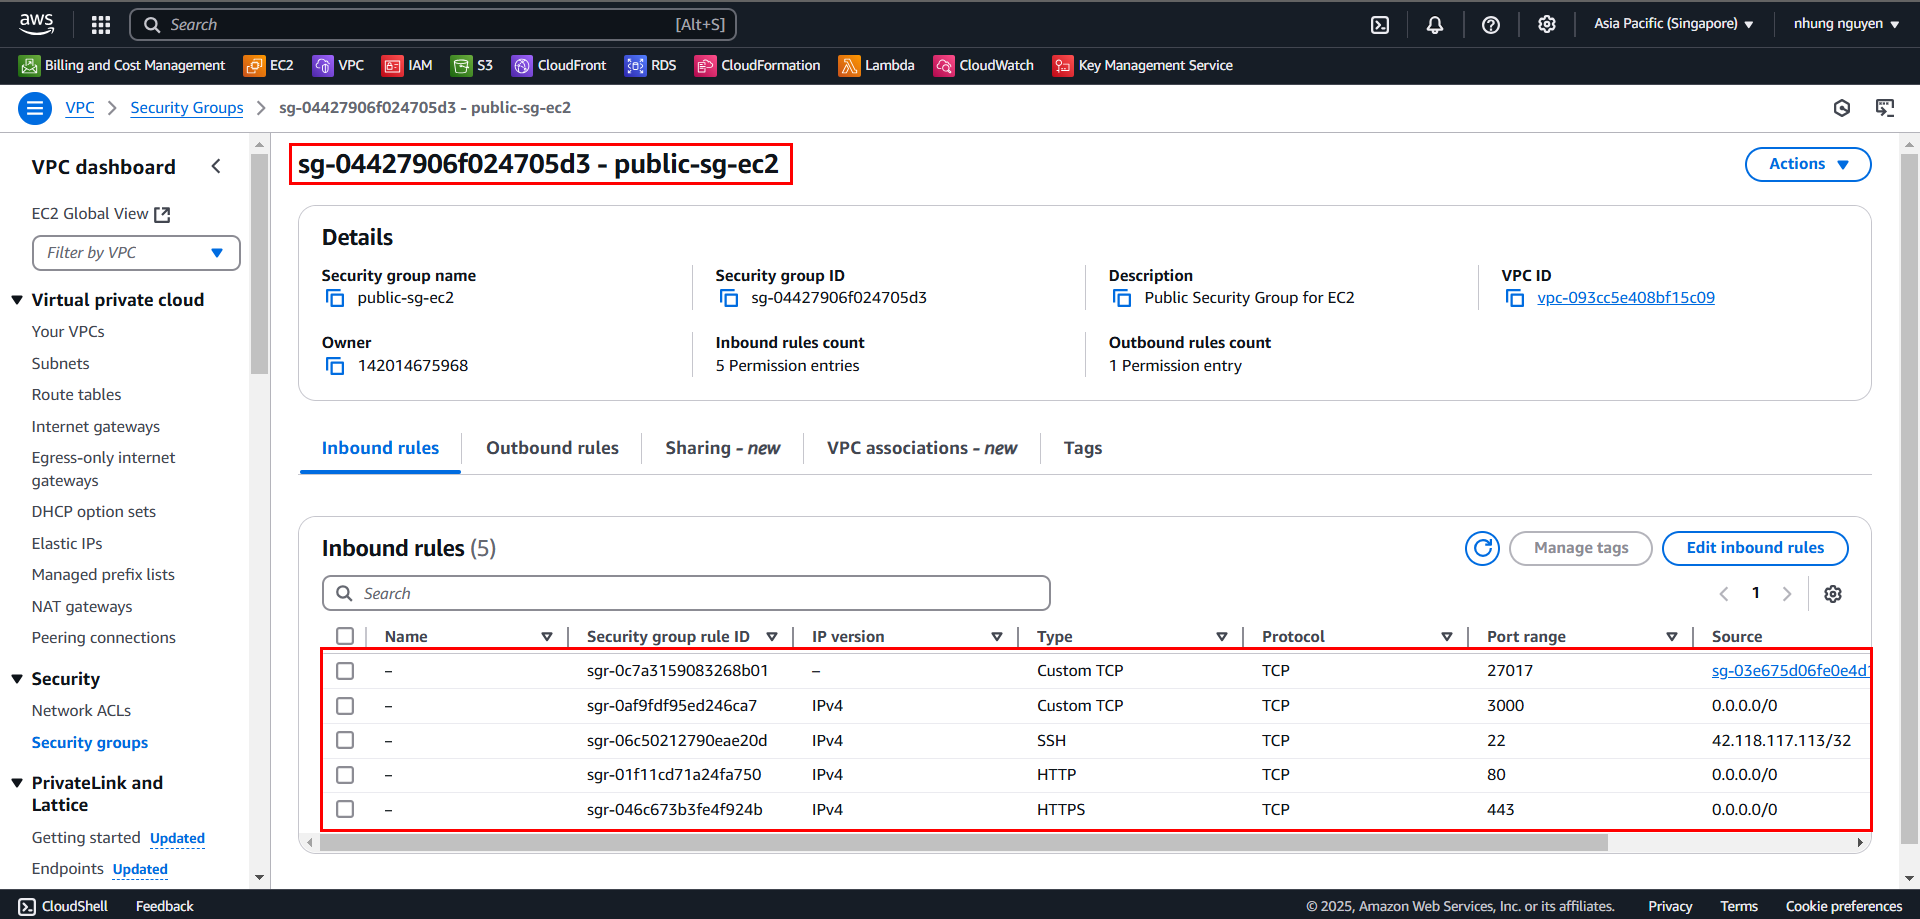
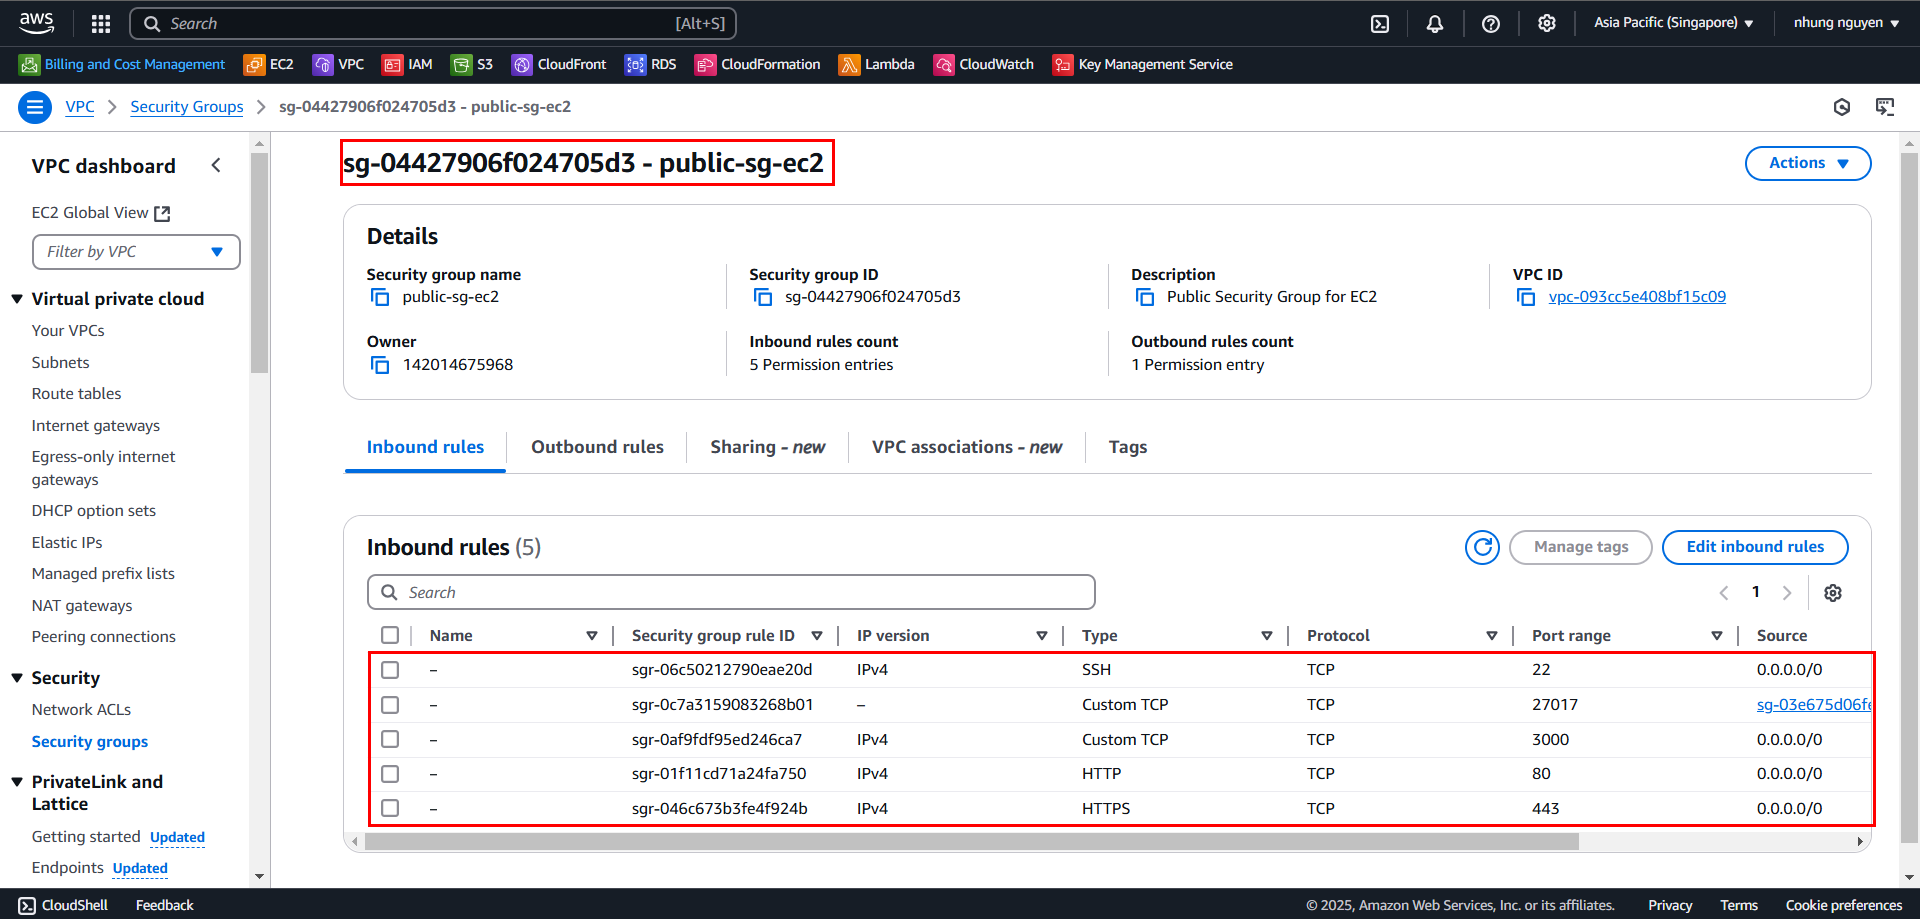
create ec2 instance (vi)

diff --git a/content/4-create-ec2-instance/_index.vi.md b/content/4-create-ec2-instance/_index.vi.md
@@ -8,103 +8,162 @@ pre: "<b>4. </b>"
 
 #### Amazon EC2
 
-**Amazon Elastic Compute Cloud (Amazon EC2)** cung cấp khả năng tính toán có thể mở rộng và on-demand trong môi trường Cloud của Amazon Web Services (AWS).
+**Amazon Elastic Compute Cloud (Amazon EC2)** là một cơ sở hạ tầng điện toán đám mây được cung cấp bởi Amazon Web
+Services (AWS) giúp cung cấp tài nguyên máy tính ảo hoá theo yêu cầu.
 
-![ec2](https://docs.aws.amazon.com/images/AWSEC2/latest/UserGuide/images/instance-types.png)
+#### Amazon EC2 Instance
 
-Dưới đây là nội dung mở rộng cho phần "Trường hợp sử dụng chính của EC2 trong Workshop":
+**Amazon EC2 Instance** là một cloud server. Với một tài khoản bạn có thể tạo và sử dụng nhiều Amazon EC2 Instance. Các
+Amazon EC2 Instance được chạy trên cùng một server vật lý và chia sẻ memory, CPU, ổ cứng...
 
-#### Trường hợp sử dụng chính của EC2 trong Workshop
+#### Mô hình triển khai EC2 trong Workshop
 
-Trong bài Workshop này, **Amazon EC2** được sử dụng để triển khai một ứng dụng Golang đơn giản. Với mục tiêu tiết kiệm chi phí và tối ưu tài nguyên, chúng ta sử dụng loại instance **t2.micro**. Đây là loại instance phù hợp cho các ứng dụng nhỏ hoặc môi trường phát triển, nhờ cung cấp mức tài nguyên cơ bản với chi phí thấp.
+- Trong Workshop này, chúng ta sẽ khởi tạo EC2 Instance để chạy ứng dụng Next.js Fullstack với API Routes. EC2 sẽ đóng
+  vai trò như một Application Server xử lý cả Frontend và Backend.
 
-#### Lý do chọn **t2.micro**:
+#### Lý do chọn **t2.medium**:
 
-- **Chi phí thấp:** Là một loại instance thuộc Free Tier (miễn phí trong giới hạn AWS Free Tier), phù hợp cho việc học tập hoặc thử nghiệm.
-- **Tài nguyên cơ bản:** Bao gồm 1 vCPU và 1GB RAM, đủ để chạy ứng dụng Golang đơn giản hoặc thử nghiệm các dịch vụ AWS cơ bản.
-- **Burstable Performance:** Có khả năng tăng cường hiệu năng khi cần, rất hữu ích cho các ứng dụng có tải không đều.
+- **Cân bằng giữa hiệu suất và chi phí:**
+
+  - t2.medium cung cấp 2 vCPU và 4GB RAM, đủ để chạy Next.js Fullstack (bao gồm cả API Routes).
+  - Giá thuê t2.medium thấp hơn so với các loại instance cao cấp như t3.large hoặc m5.large, giúp tiết kiệm chi phí.
+
+- **Hỗ trợ Burstable Performance:** T2 instances là Burstable Performance Instances, tức là có thể tăng hiệu suất CPU khi cần thiết.
+
+- **Linh hoạt trong mở rộng (Scaling):** Nếu cần mở rộng, có thể dễ dàng chuyển sang t3.medium hoặc m5.large mà không cần thay đổi kiến trúc.
+
+**Trong workshop này, chúng ta chọn tính tiền t2.medium theo On-Demand ở region ap-southeast-1 (Singapore)**
+| On-Demand hourly rate | vCPU | Memory |
+| ----------------------- | -----| -------|
+| $0.0584 | 2 | 4 GiB |
+
+**Tại sao chọn On-Demand Instances:** Trả tiền theo nhu cầu sử dụng mà không cần cam kết dài hạn
+
+**Chi phí dự kiến khi dùng On-Demand:**
+
+- t2.medium (2 vCPU, 4GB RAM): **0.0584 USD/giờ**
+- Nếu chạy liên tục 24/7 (730 giờ/tháng): **~42.63 USD/tháng**
+
+**👉 Tối ưu chi phí:** Chỉ bật EC2 khi cần sử dụng, tắt khi không cần.
 
 ---
 
-#### Tạo một EC2 Instance trên AWS
-
-Bạn có thể tạo một instance Linux bằng cách sử dụng AWS Management Console theo hướng dẫn sau đây.
-Hướng dẫn này được thiết kế để giúp bạn tạo instance đầu tiên một cách nhanh chóng, nên nó không bao gồm tất cả các tùy chọn có thể có.
-
-Để biết thông tin về các tùy chọn nâng cao, hãy xem Hướng dẫn tạo instance bằng cách sử dụng hướng dẫn mới về Launch Instance. Để biết thông tin về cách khác để tạo instance của bạn, hãy xem Hướng dẫn tạo instance của bạn.
+#### Khởi tạo EC2 Instance
 
 #### 1. Truy cập AWS Console
 
 - Mở trình duyệt và truy cập vào Amazon EC2 console tại https://console.aws.amazon.com/ec2/.
 
-#### 2. Chọn Launch instance
+#### 2. Trong **Dashboard**, chọn **Launch instance**
 
-- Tại màn hình dashboard của EC2 console, trong hộp Launch instance, chọn Launch instance, sau đó chọn Launch instance từ các tùy chọn xuất hiện.
+![Launch.png](/images/4-create-ec2-instance/4.1.png)
 
 #### 3. Đặt tên cho instance
 
-- Dưới phần Name and tags, cho Name, nhập tên mô tả cho instance của bạn.
+- Trong phần **Name and tags**:
+  - **Name:** `nextjs-ec2`
 
 #### 4. Chọn image (Amazon Machine Image - AMI)
 
 - Dưới phần Application and OS Images (Amazon Machine Image), làm theo các bước sau đây:
-- Chọn Quick Start, sau đó chọn Amazon Linux. Đây là hệ điều hành (OS) cho instance của bạn.
-- Từ Amazon Machine Image (AMI), chọn một phiên bản HVM của Amazon Linux 2023. Lưu ý rằng các AMI này được đánh dấu là Free tier eligible. Một Amazon Machine Image (AMI) là một cấu hình cơ bản dùng làm mẫu cho instance của bạn.
-  ![ami.png](/images/4-create-ec2-instance/ami.png)
+  - Chọn **Quick Start**, sau đó chọn **Ubuntu**. Đây là hệ điều hành (OS) cho instance của bạn.
+  - Từ Amazon Machine Image (AMI), chọn **Ubuntu 24.04 LTS HVM**. Lưu ý rằng AMI này được đánh dấu là **Free tier eligible**. Một Amazon Machine Image (AMI) là một cấu hình cơ bản dùng làm mẫu cho instance của bạn.
+    ![ami.png](/images/4-create-ec2-instance/4.2.png)
 
 #### 5. Chọn loại instance
 
-- Dưới phần Instance type, từ danh sách Instance type, bạn có thể chọn cấu hình phần cứng cho instance của bạn. Chọn loại instance t2.micro, mà mặc định đã được chọn. Loại instance t2.micro đủ điều kiện để sử dụng miễn phí trong AWS Free Tier. Tại các khu vực mà loại t2.micro không có sẵn, bạn có thể sử dụng loại t3.micro trong AWS Free Tier. Để biết thêm thông tin, hãy xem AWS Free Tier.
+- Trong Instance type, chọn loại instance **t2.medium** và dưới phần **Key pair (login)**, chọn **Create new key pair**
+  ![instance.png](/images/4-create-ec2-instance/4.3.png)
 
-#### 6. Chọn Key Pair
+#### 6. Tạo Key Pair
 
-- Dưới phần Key pair (login), cho Key pair name, chọn key pair mà bạn đã tạo khi cài đặt.
+- Trong **Create key pair**, điền những thông tin sau:
+  - **Key pair name**: `nextjs-kp`
+  - **Key pair type**: chọn **RSA**
+  - **Private key file format**: **.pem**
+- Sau đó chọn **Create key pair**. Một file **.pem** sẽ tự động tải về máy
+  ![instance.png](/images/4-create-ec2-instance/4.4.png)
 
 {{% notice warning %}}
-Cảnh báo: Đừng chọn Proceed without a key pair (Không được khuyến nghị). Nếu bạn tạo instance mà không có key pair, bạn sẽ không thể kết nối vào nó.
+Cảnh báo: Đừng chọn Proceed without a key pair (Không được khuyến nghị). Nếu bạn tạo instance mà không có key pair, bạn
+sẽ không thể kết nối vào nó.
 {{% /notice %}}
 
 #### 7. Cấu hình Security Group
 
-- Bên cạnh Network settings, chọn Edit. Đối với Security group name, bạn sẽ thấy rằng hướng dẫn đã tạo và chọn một security group cho bạn. Bạn chọn security group mà bạn đã tạo khi cài đặt bằng các bước sau đây:
+- Trong **Network settings**, chọn **Edit** ở bên cạnh. Đối với Security group name, bạn đã tạo và chọn một security group cho EC2. Bạn chọn security group mà bạn đã tạo khi cài đặt bằng các bước sau đây:
 
-- Chọn Select existing security group.
-  - Từ Common security groups, chọn security group của bạn từ danh sách các security group hiện có.
+  - Chọn **Select existing security group**.
+  - Từ **Common security groups**, chọn security group của bạn từ danh sách các security group hiện có.
   - Xác nhận và khởi động instance
   - Giữ nguyên các lựa chọn mặc định cho các cài đặt khác của instance của bạn.
-  - Xem lại bản tóm tắt về cấu hình instance của bạn trong Summary panel, và khi bạn đã sẵn sàng, chọn Launch instance.
+  - Xem lại bản tóm tắt về cấu hình instance của bạn trong **Summary**, và khi bạn đã sẵn sàng, chọn **Launch instance**.
 
-![sg-config.png](/images/4-create-ec2-instance/sg-config.png)
+  ![sg-config.png](/images/4-create-ec2-instance/4.6.png)
 
 #### 8. Xác nhận và kiểm tra
 
-- Một trang xác nhận sẽ thông báo rằng instance của bạn đang được khởi động. Chọn **View all instances** để đóng trang xác nhận và trở lại giao diện console.
-- Trên màn hình Instances, bạn có thể xem trạng thái của quá trình khởi động. Có một thời gian ngắn để instance được khởi động. Khi bạn khởi động instance, trạng thái ban đầu của nó là pending. Sau khi instance khởi động, trạng thái của nó sẽ thay đổi thành running và nó sẽ nhận được một tên DNS công cộng. Nếu cột Public IPv4 DNS bị ẩn, hãy chọn biểu tượng cài đặt (Biểu tượng cài đặt) ở góc trên bên phải, bật Public IPv4 DNS và chọn Confirm.
-- Có thể mất vài phút để instance sẵn sàng để bạn kết nối vào. Hãy kiểm tra xem instance của bạn đã vượt qua kiểm tra trạng thái; bạn có thể xem thông tin này trong cột Status check.
+- Một trang thông báo rằng instance của bạn đang được khởi động. Chọn **View all instances** để quay lại giao diện console..
+  ![view.png](/images/4-create-ec2-instance/4.7.png)
 
-![review.png](/images/4-create-ec2-instance/review-png.png)
+- Trên màn hình **Instances**, kiểm tra trạng thái EC2:
+  - **pending** → đang khởi động
+  - **running** → đã khởi động thành công, có Public DNS
+- Đợi vài phút để EC2 sẵn sàng, kiểm tra **Status check** để đảm bảo hoạt động ổn định.
+- Xem Public IPv4 tại **EC2 Instance** > **Networking** > **Public IPv4 Address**.
+  ![review.png](/images/4-create-ec2-instance/4.8.png)
 
-- Kiểm tra Public IPv4 click chọn vào **EC2 Instance** > **Networking** tab > **Public IPv4 Address**
+#### 9. Kiểm tra kết nối tới EC2 Instance
 
-  ![check-ipv4.png](/images/4-create-ec2-instance/check-ipv4.png)
-
-#### Kiểm tra kết nối tới EC2 Instance
-
-#### 1. Kết nối EC2 Instance bằng SSH
+#### 9.1. Kết nối EC2 Instance bằng SSH
 
 - Chọn EC2 Instance vừa khởi tạo, chọn **Connect**
+  ![connect.png](/images/4-create-ec2-instance/4.9.png)
 - Tại giao diện **Connect to instance**, chọn tab **SSH Client**
+  ![ssh-client.png](/images/4-create-ec2-instance/4.10.png)
 
-![ssh-ec2.png](/images/4-create-ec2-instance/ssh-ec2.png)
+- Nếu bạn đang sử dụng **MacOS**, copy example ssh command line và paste vào **Terminal**, câu lệnh có cú pháp:
 
-- Nếu bạn đang sử dụng Windows, hãy cài đặt [WSL2](https://learn.microsoft.com/en-us/windows/wsl/install) để thực hiện các câu lệnh Linux (hoặc có thể sử dụng ứng dụng [Putty](https://www.putty.org/))
-- Nếu bạn đang sử dụng MacOS, copy example ssh command line và paste vào **Terminal**, câu lệnh có cú pháp:
+  ```
+  $ chmod 400 "nextjs-kp.pem"
+  $ ssh -i path/to/key-pair.pem ubuntu@domain
+  ```
 
-```
-$ chmod 400 "key-pair.pem"
-$ ssh -i path/to/key-pair.pem ec2-user@domain
-```
+- Nếu bạn đang sử dụng **Windows**, hãy cài đặt [WSL2](https://learn.microsoft.com/en-us/windows/wsl/install) để thực hiện các câu lệnh Linux hoặc có thể Tải các công cụ PuTTY: [PuTTY Executable (putty.exe)](https://the.earth.li/~sgtatham/putty/latest/w64/putty.exe), [Tải SCP Client (pscp.exe)](https://the.earth.li/~sgtatham/putty/latest/w64/pscp.exe), [Tải RSA và DSA Key Generation Utility (puttygen.exe)](https://the.earth.li/~sgtatham/putty/latest/w64/puttygen.exe))
+- Lưu các file này vào cùng thư mục nơi bạn đã tải về cặp key của EC2.
 
-#### 2. Truy cập thành công
+- Ở trong workshop này, chúng ta sẽ kết nối EC2 bằng Putty:
+  - Mở **puttygen.exe** và load file private key.
+  - Chọn **Load**.
+  - Chọn file **nextjs-kp.pem** làm private key cho instance.
+    ![connect1.png](/images/4-create-ec2-instance/4.11.png)
+  - Sau khi import key thành công, lưu **private key** đã được chuyển đổi
+    ![connect2.png](/images/4-create-ec2-instance/4.12.png)
+  - Đặt tên file là **nextjs-kp.ppk** và chọn **Save**.
+    ![connect3.png](/images/4-create-ec2-instance/4.13.png)
+  - Quay lại giao diện EC2, chọn instance Linux và sao chép địa chỉ Public IPv4.
+    ![ipv4.png](/images/4-create-ec2-instance/4.14.png)
+  - Kết nối EC2 bằng PuTTY:
+    - Mở **putty.exe**.
+    - Nhập Public IPv4 Address vào phần Host Name (or IP address).
+    - Lưu phiên với tên Ubuntu, chọn Save.
+      ![ipv4.png](/images/4-create-ec2-instance/4.15.png)
+  - Cấu hình SSH để kết nối:
+    - Chọn SSH > Auth.
+    - Nhấn Browse, chọn tệp **nextjs-kp.ppk**.
+    - Nhấn **Open** để kết nối.
+    - Khi có thông báo xác nhận, chọn **Accept** để tiếp tục.
+      ![ipv4.png](/images/4-create-ec2-instance/4.16.png)
+      ![ipv4.png](/images/4-create-ec2-instance/4.17.png)
+    - Sau đó đăng nhập bằng tên: `ubuntu`
+      ![login.png](/images/4-create-ec2-instance/4.18.png)
 
-![complete.png](/images/4-create-ec2-instance/complete.png)
+#### 9.2. Truy cập thành công
+
+![complete.png](/images/4-create-ec2-instance/4.19.png)
+
+{{< center >}}
+
+### **Hoàn thành! 🚀**
+
+{{< /center >}}

diff --git a/content/3-create-vpc-instance/3.2-create-vpc-sg/_index.vi.md b/content/3-create-vpc-instance/3.2-create-vpc-sg/_index.vi.md
@@ -8,7 +8,8 @@ pre: "<b>3.2. </b>"
 
 #### Khái niệm về VPC Security Group
 
-Security Group là một tập hợp các quy tắc kiểm soát lưu lượng mạng vào (Inbound) và ra (Outbound) của các instance trong Amazon VPC. Nó hoạt động như một tường lửa ảo, giúp quản lý và bảo vệ tài nguyên.
+Security Group là một tập hợp các quy tắc kiểm soát lưu lượng mạng vào (Inbound) và ra (Outbound) của các instance trong
+Amazon VPC. Nó hoạt động như một tường lửa ảo, giúp quản lý và bảo vệ tài nguyên.
 
 #### Đặc Điểm Chính Của Security Group
 
@@ -26,27 +27,29 @@ Tiếp theo, chúng ta sẽ khởi tạo 2 SGs đại diện cho public subnets 
 
 #### 2.1. Khởi tạo Public Security Group (SG Public - EC2)
 
-- Truy cập [Security groups](https://ap-southeast-1.console.aws.amazon.com/vpcconsole/home?region=ap-southeast-1#SecurityGroups:) và chọn **Create security group**
+- Truy cập [Security
+  groups](https://ap-southeast-1.console.aws.amazon.com/vpcconsole/home?region=ap-southeast-1#SecurityGroups:) và chọn
+  **Create security group**
   ![security-groups](/images/3-create-vpc-instance/3.2-create-vpc-sg/3.2.1.png)
 - Trong Interface **Create Security Group**, thêm những thông tin sau cho **public-sg-ec2**
 
-  - **Security group name:** `public-sg-ec2`
-  - **Description:** `Public Security Group for EC2`
-  - **VPC:** Chọn VPC bạn đang sử dụng
-    ![basic-details](/images/3-create-vpc-instance/3.2-create-vpc-sg/3.2.2.png)
+- **Security group name:** `public-sg-ec2`
+- **Description:** `Public Security Group for EC2`
+- **VPC:** Chọn VPC bạn đang sử dụng
+  ![basic-details](/images/3-create-vpc-instance/3.2-create-vpc-sg/3.2.2.png)
 
 - Thêm **Inbound Rules** tương ứng cho **public-sg-ec2**
 
-  | Protocol   | Port Range | Source                | Mô tả                           |
-  | ---------- | ---------- | --------------------- | ------------------------------- |
-  | HTTP       | 80         | 0.0.0.0/0             | Cho phép truy cập website       |
-  | HTTPS      | 443        | 0.0.0.0/0             | Hỗ trợ SSL/TLS                  |
-  | SSH        | 22         | My IP Address         | Đăng nhập SSH vào EC2           |
-  | Custom TCP | 3000       | 0.0.0.0/0             | Chạy Next.js dev mode           |
-  | Custom TCP | 27017      | SG-Private-DocumentDB | Cho phép EC2 kết nối DocumentDB |
+| Protocol   | Port Range | Source                | Mô tả                           |
+| ---------- | ---------- | --------------------- | ------------------------------- |
+| HTTP       | 80         | 0.0.0.0/0             | Cho phép truy cập website       |
+| HTTPS      | 443        | 0.0.0.0/0             | Hỗ trợ SSL/TLS                  |
+| SSH        | 22         | 0.0.0.0/0             | Đăng nhập SSH vào EC2           |
+| Custom TCP | 3000       | 0.0.0.0/0             | Chạy Next.js dev mode           |
+| Custom TCP | 27017      | SG-Private-DocumentDB | Cho phép EC2 kết nối DocumentDB |
 
-  ![inbound-rules](/images/3-create-vpc-instance/3.2-create-vpc-sg/3.2.3.png)
-  **❗❗Bổ sung Inbound cho port 27017 sau**
+![inbound-rules](/images/3-create-vpc-instance/3.2-create-vpc-sg/3.2.3.png)
+**❗❗Bổ sung Inbound cho port 27017 sau**
 
 - Allows all **Outbound** traffic và chọn **Create security group**
   ![outbound-rules](/images/3-create-vpc-instance/3.2-create-vpc-sg/3.2.4.png)
@@ -56,18 +59,18 @@ Tiếp theo, chúng ta sẽ khởi tạo 2 SGs đại diện cho public subnets 
 
 - Trong Interface **Create Security Group**, thêm những thông tin sau cho **private-sg-documentdb**
 
-  - **Security group name:** `private-sg-documentdb`
-  - **Description:** `Private Security Group for DocumentDB`
-  - **VPC:** Chọn VPC bạn đang sử dụng
-    ![basic-details](/images/3-create-vpc-instance/3.2-create-vpc-sg/3.2.6.png)
+- **Security group name:** `private-sg-documentdb`
+- **Description:** `Private Security Group for DocumentDB`
+- **VPC:** Chọn VPC bạn đang sử dụng
+  ![basic-details](/images/3-create-vpc-instance/3.2-create-vpc-sg/3.2.6.png)
 
 - Thêm **Inbound Rules** tương ứng cho **private-sg-documentdb**
 
-  | Protocol   | Port Range | Source        | Mô tả                              |
-  | ---------- | ---------- | ------------- | ---------------------------------- |
-  | Custom TCP | 27017      | SG-Public-EC2 | Chỉ EC2 có thể truy cập DocumentDB |
+| Protocol   | Port Range | Source        | Mô tả                              |
+| ---------- | ---------- | ------------- | ---------------------------------- |
+| Custom TCP | 27017      | SG-Public-EC2 | Chỉ EC2 có thể truy cập DocumentDB |
 
-  ![inbound-rules](/images/3-create-vpc-instance/3.2-create-vpc-sg/3.2.7.png)
+![inbound-rules](/images/3-create-vpc-instance/3.2-create-vpc-sg/3.2.7.png)
 
 - Allows all **Outbound** traffic và chọn **Create security group**
   ![outbound-rules](/images/3-create-vpc-instance/3.2-create-vpc-sg/3.2.4.png)
